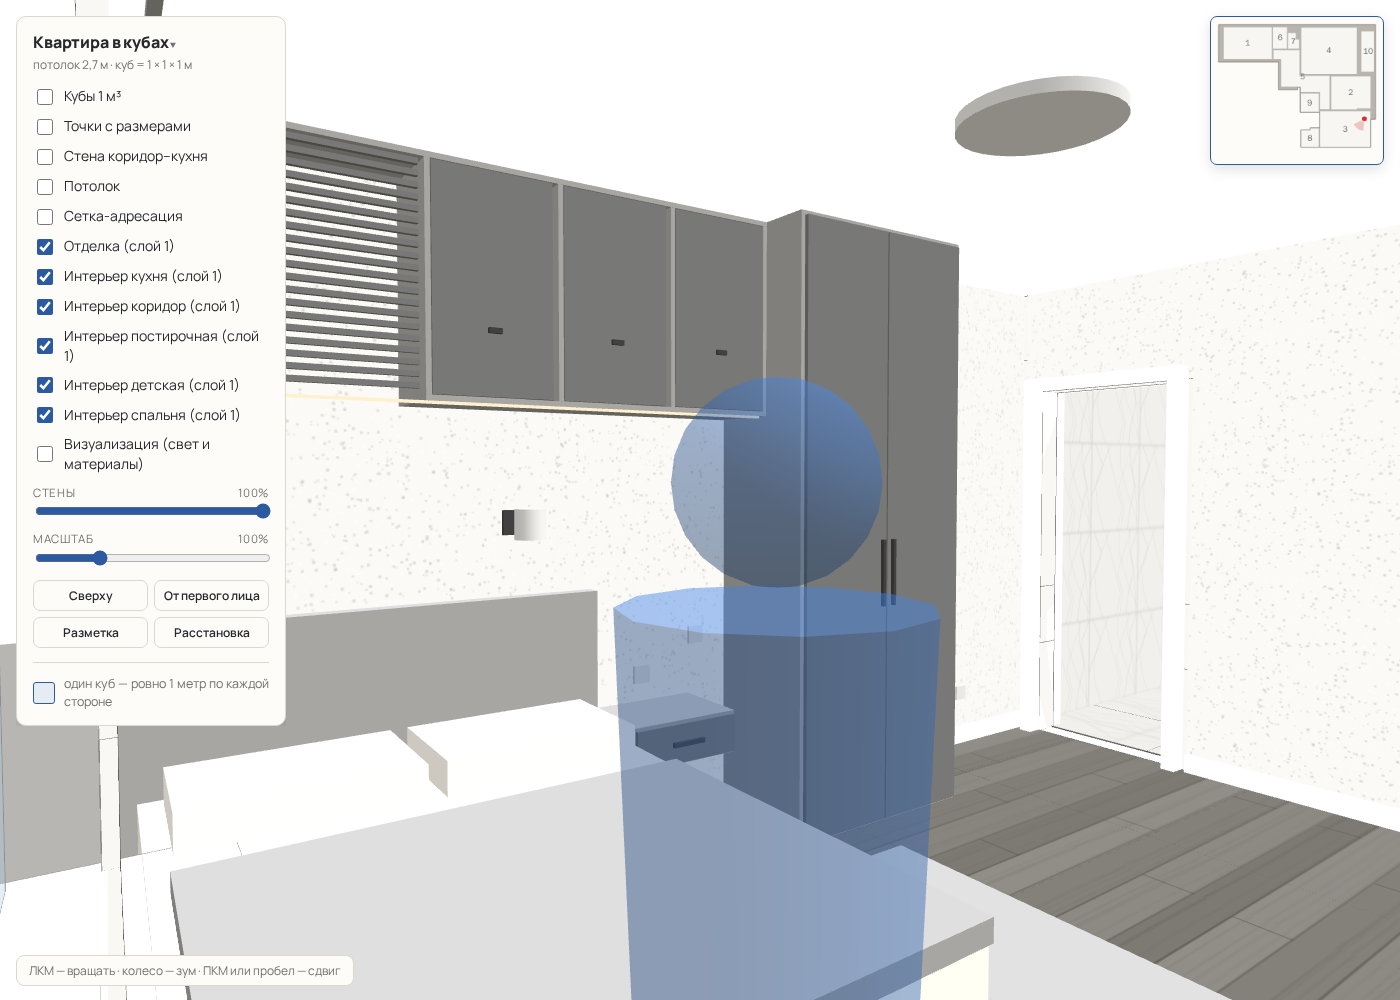
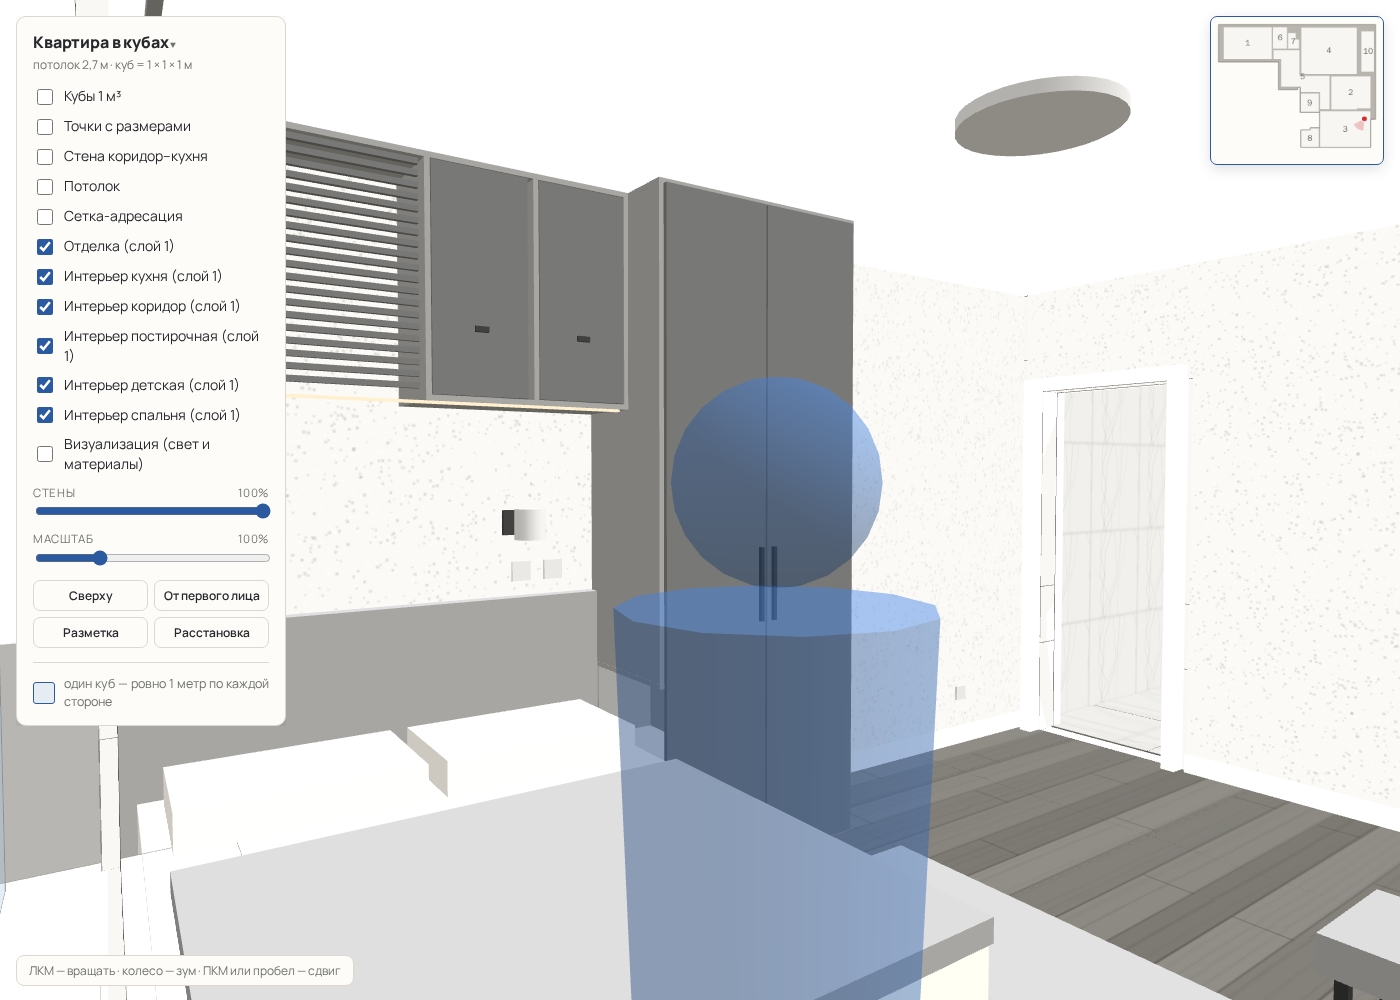
Комната 3: столик дальше от входа, отдельное полукруглое зеркало; без тумбы и одной секции ящиков, шкаф вплотную к кровати с нишей-полкой

Changed region(s): [[0.3379, 0.155, 0.7064, 0.775], [0.9521, 0.868, 1.0, 1.0]]

diff --git a/items.js b/items.js
@@ -189,19 +189,20 @@ const PHYS={}; // id → boxes
        [[0.12,0.82],[0.88,1.58]].forEach(([x0,x1])=>b(x0,x1,0.55,0.67,0.15,0.60,mat.pillow));       // two pillows
        b(0.10,1.60,0.55,0.61,0.85,2.15,mat.cushion);                                               // blanket at the feet
      }},
-    {id:'mnight',type:'подвесная тумба у кровати, западная',room:3,layer:'master',pos:[13.06,13.144],rot:180,size:[0.50,0.58,0.40],fixed:'wall',
-     build(b){ b(0,0.5,0.40,0.58,0.02,0.38,mat.body); b(0.01,0.49,0.41,0.57,0.38,0.40,mat.wdoor); b(0.175,0.325,0.48,0.50,0.40,0.415,mat.handle); }}, // one drawer
-    {id:'mcab',type:'блок подвесных ящиков над изголовьем, восточная секция под кондиционер',room:3,layer:'master',pos:[14.76,13.144],rot:180,size:[2.40,2.70,0.35],fixed:'wall',
+    {id:'mcab',type:'блок подвесных ящиков над изголовьем: 2 дверцы + секция под кондиционер',room:3,layer:'master',pos:[14.76,13.144],rot:180,size:[1.70,2.70,0.35],fixed:'wall',
      build(b){
        const t=0.02;
-       b(0,2.4,2.7-t,2.7,0,0.35,mat.body); b(0.9,2.4,1.85,1.85+t,0,0.35,mat.body); b(0.9,2.4,1.85+t,2.7-t,0,t,mat.body); // top, bottom and back of the 3 door sections; AC section has neither
-       [0,0.9,1.4,1.9,2.38].forEach(x=>b(x,x+t,1.85+t,2.7-t,t,0.35,mat.body));                     // section walls
-       for(let i=0;i<3;i++){ const x0=0.9+i*0.5+t+0.003; b(x0,x0+0.5-2*t-0.006,1.85+t+0.003,2.7-t-0.003,0.33,0.35,mat.wdoor); b(x0+0.2,x0+0.25,2.1,2.12,0.35,0.365,mat.handle); } // doors
+       b(0,1.7,2.7-t,2.7,0,0.35,mat.body); b(0.9,1.7,1.85,1.85+t,0,0.35,mat.body); b(0.9,1.7,1.85+t,2.7-t,0,t,mat.body); // top, bottom and back of the 2 door sections; AC section has neither
+       [0,0.9,1.3,1.68].forEach(x=>b(x,x+t,1.85+t,2.7-t,t,0.35,mat.body));                         // section walls
+       for(let i=0;i<2;i++){ const x0=0.9+i*0.4+t+0.003; b(x0,x0+0.4-2*t-0.006,1.85+t+0.003,2.7-t-0.003,0.33,0.35,mat.wdoor); b(x0+0.15,x0+0.2,2.1,2.12,0.35,0.365,mat.handle); } // doors
        for(let y=1.89;y<2.66;y+=0.04) b(0.02,0.88,y,y+0.02,0.33,0.35,mat.wdoor);                   // louvred front of the AC section, open bottom
      }},
-    {id:'mward',type:'шкаф на две двери для повседневных вещей',room:3,layer:'master',pos:[12.36,13.144],rot:180,size:[1.00,2.70,0.60],fixed:'wall',
+    {id:'mward',type:'шкаф на две двери, вплотную к кровати; ниша-полка со стороны кровати 0.45–0.80',room:3,layer:'master',pos:[13.06,13.144],rot:180,size:[1.00,2.70,0.60],fixed:'wall',
      build(b){
-       b(0,0.02,0,2.7,0.03,0.58,mat.body); b(0.98,1.0,0,2.7,0.03,0.58,mat.body); b(0,1.0,2.68,2.7,0.03,0.58,mat.body); b(0,1.0,0,0.02,0.03,0.58,mat.body); b(0.02,0.98,0.02,2.68,0.03,0.05,mat.body); // body
+       const N0=0.45, N1=0.80, NW=0.30;                                                                // niche: height 0.45–0.80, 0.30 deep into the wardrobe
+       b(0,0.02,0,N0,0.03,0.58,mat.body); b(0,0.02,N1,2.7,0.03,0.58,mat.body);                       // bed-side panel above and below the niche
+       b(0.98,1.0,0,2.7,0.03,0.58,mat.body); b(0,1.0,2.68,2.7,0.03,0.58,mat.body); b(0,1.0,0,0.02,0.03,0.58,mat.body); b(0.02,0.98,0.02,2.68,0.03,0.05,mat.body); // body
+       b(0,NW,N0,N0+0.02,0.03,0.58,mat.body); b(0,NW,N1-0.02,N1,0.03,0.58,mat.body); b(NW-0.02,NW,N0,N1,0.03,0.58,mat.body); // niche shelf, ceiling and back
        b(0.02,0.496,0.02,2.68,0.58,0.60,mat.wdoor); b(0.504,0.98,0.02,2.68,0.58,0.60,mat.wdoor);   // two doors
        b(0.46,0.475,1.0,1.3,0.60,0.62,mat.handle); b(0.525,0.54,1.0,1.3,0.60,0.62,mat.handle);      // vertical bar handles
      }},
@@ -209,12 +210,13 @@ const PHYS={}; // id → boxes
      build(b){ b(0,0.97,1.07,1.63,0,0.04,mat.dark); b(0.02,0.95,1.09,1.61,0,0.005,mat.screen); }},
     {id:'mconsole',type:'подвесная консоль под ТВ, два ящика',room:3,layer:'master',pos:[14.51,10.127],rot:180,size:[1.20,0.60,0.35],fixed:'wall',
      build(b){ b(0,1.2,0.42,0.60,0.02,0.33,mat.body); [0.01,0.605].forEach(x=>{ b(x,x+0.585,0.43,0.59,0,0.02,mat.wdoor); b(x+0.22,x+0.37,0.50,0.52,-0.015,0,mat.handle); }); }},
-    {id:'vanity',type:'туалетный столик с плоским ящиком',room:3,layer:'master',pos:[11.9,10.227],rot:180,size:[1.00,0.75,0.45],fixed:'wall',
+    {id:'vanity',type:'туалетный столик с плоским ящиком',room:3,layer:'master',pos:[12.6,10.227],rot:180,size:[1.00,0.75,0.45],fixed:'wall',
      build(b){ b(0,1.0,0.72,0.75,0,0.45,mat.body); b(0.03,0.97,0.62,0.72,0.05,0.43,mat.body); b(0.04,0.96,0.63,0.71,0.03,0.05,mat.wdoor);
        b(0,0.03,0,0.72,0.05,0.43,mat.body); b(0.97,1.0,0,0.72,0.05,0.43,mat.body); }},                // side panels
-    {id:'vmirror',type:'зеркало над туалетным столиком',room:3,layer:'master',pos:[11.8,9.827],rot:180,size:[0.80,1.80,0.03],fixed:'wall',
-     build(b){ b(0,0.8,0.80,1.80,0.01,0.03,mat.frame); b(0.02,0.78,0.82,1.78,0,0.01,mat.glass); }},
-    {id:'vpouf',type:'пуфик у туалетного столика',room:3,layer:'master',pos:[11.6,10.681],rot:180,size:[0.40,0.45,0.40],
+    {id:'vmirror',type:'зеркало полукруглое Ø1.10, отдельно на стене над столиком',room:3,layer:'master',pos:[12.65,9.827],rot:180,size:[1.10,1.52,0.03],fixed:'wall',
+     build(b,g){ const half=(r,m,z)=>{ const d=new THREE.Mesh(new THREE.CircleGeometry(r,48,0,Math.PI),m); d.rotation.y=Math.PI; d.position.set(0.55,0.95,z); g.add(d); };
+       half(0.57,mat.frame,0.025); half(0.55,mat.glass,0.01); b(-0.02,1.12,0.93,0.95,0.005,0.03,mat.frame); }}, // flat bottom edge 0.20 above the worktop
+    {id:'vpouf',type:'пуфик у туалетного столика',room:3,layer:'master',pos:[12.3,10.681],rot:180,size:[0.40,0.45,0.40],
      build(b){ b(0,0.4,0.35,0.45,0,0.4,mat.cushion); [[0.03,0.03],[0.34,0.03],[0.03,0.34],[0.34,0.34]].forEach(([x,z])=>b(x,x+0.03,0,0.35,z,z+0.03,mat.frame)); }},
     {id:'mrug',type:'ковёр, короткий ворс',room:3,layer:'master',pos:[14.0,12.321],rot:180,size:[2.00,0.01,2.00],
      build(b){ b(0,2,0,0.01,0,2,mat.wpanel); }},
@@ -226,23 +228,23 @@ const PHYS={}; // id → boxes
      build(b,g){ b(0.03,0.13,1.35,1.45,0,0.02,mat.handle); b(0.075,0.085,1.395,1.405,0.02,0.13,mat.handle); const s=new THREE.Mesh(new THREE.CylinderGeometry(0.06,0.06,0.12,16),mat.lamp); s.position.set(0.08,1.40,0.165); g.add(s); }},
     {id:'bra6',type:'бра для чтения, восточная сторона кровати',room:3,layer:'master',pos:[14.49,13.124],rot:180,size:[0.16,1.50,0.245],fixed:'wall',
      build(b,g){ b(0.03,0.13,1.35,1.45,0,0.02,mat.handle); b(0.075,0.085,1.395,1.405,0.02,0.13,mat.handle); const s=new THREE.Mesh(new THREE.CylinderGeometry(0.06,0.06,0.12,16),mat.lamp); s.position.set(0.08,1.40,0.165); g.add(s); }},
-    {id:'led4',type:'LED-лента под блоком ящиков, свет на изголовье',room:3,layer:'master',pos:[14.72,12.814],rot:180,size:[2.32,1.85,0.02],fixed:'wall',
-     build(b){ b(0,2.32,1.84,1.85,0,0.02,mat.led); }},
-    {id:'bra7',type:'бра у зеркала, левое',room:3,layer:'master',pos:[10.97,10.022],rot:180,size:[0.16,1.60,0.245],fixed:'wall',
+    {id:'led4',type:'LED-лента под блоком ящиков, свет на изголовье',room:3,layer:'master',pos:[14.72,12.814],rot:180,size:[1.62,1.85,0.02],fixed:'wall',
+     build(b){ b(0,1.62,1.84,1.85,0,0.02,mat.led); }},
+    {id:'bra7',type:'бра у зеркала, левое',room:3,layer:'master',pos:[11.48,10.022],rot:180,size:[0.16,1.60,0.245],fixed:'wall',
      build(b,g){ b(0.03,0.13,1.45,1.55,0.225,0.245,mat.handle); b(0.075,0.085,1.495,1.505,0.115,0.225,mat.handle); const s=new THREE.Mesh(new THREE.CylinderGeometry(0.06,0.06,0.12,16),mat.lamp); s.position.set(0.08,1.50,0.08); g.add(s); }},
-    {id:'bra8',type:'бра у зеркала, правое',room:3,layer:'master',pos:[12.0,10.022],rot:180,size:[0.16,1.60,0.245],fixed:'wall',
+    {id:'bra8',type:'бра у зеркала, правое',room:3,layer:'master',pos:[12.88,10.022],rot:180,size:[0.16,1.60,0.245],fixed:'wall',
      build(b,g){ b(0.03,0.13,1.45,1.55,0.225,0.245,mat.handle); b(0.075,0.085,1.495,1.505,0.115,0.225,mat.handle); const s=new THREE.Mesh(new THREE.CylinderGeometry(0.06,0.06,0.12,16),mat.lamp); s.position.set(0.08,1.50,0.08); g.add(s); }},
     {id:'led5',type:'LED-подсветка по нижней кромке ТВ',room:3,layer:'master',pos:[14.37,9.837],rot:180,size:[0.92,1.07,0.01],fixed:'wall',
      build(b){ b(0,0.92,1.06,1.07,0,0.01,mat.led); }},
     {id:'sw3',type:'выключатель у двери, 2 клавиши: общий свет M13 + бра/LED',room:3,layer:'master',pos:[10.051,10.921],rot:180,size:[0.01,0.99,0.08],fixed:'wall',build(b){ b(0,0.01,0.91,0.99,0,0.08,mat.lamp); }},
-    {id:'sw4',type:'проходной выключатель у кровати, 2 клавиши',room:3,layer:'master',pos:[12.56,13.124],rot:180,size:[0.08,0.89,0.01],fixed:'wall',build(b){ b(0,0.08,0.81,0.89,0,0.01,mat.lamp); }},
+    {id:'sw4',type:'проходной выключатель у кровати, 2 клавиши (над изголовьем)',room:3,layer:'master',pos:[13.42,13.124],rot:180,size:[0.08,1.24,0.01],fixed:'wall',build(b){ b(0,0.08,1.16,1.24,0,0.01,mat.lamp); }},
     // sockets: flat boxes 0.08 × 0.08 × 0.01 on the wall, purpose in the caption
-    {id:'sock14',type:'розетки 2+2 USB над тумбой',room:3,layer:'master',pos:[12.85,13.124],rot:180,size:[0.08,0.74,0.01],fixed:'wall',build(b){ b(0,0.08,0.66,0.74,0,0.01,mat.lamp); }},
+    {id:'sock14',type:'розетки 2+2 USB у западного края изголовья (над изголовьем 1.10)',room:3,layer:'master',pos:[13.28,13.124],rot:180,size:[0.08,1.24,0.01],fixed:'wall',build(b){ b(0,0.08,1.16,1.24,0,0.01,mat.lamp); }},
     {id:'sock15',type:'розетка + USB у восточного края изголовья (над изголовьем 1.10)',room:3,layer:'master',pos:[14.6,13.124],rot:180,size:[0.08,1.24,0.01],fixed:'wall',build(b){ b(0,0.08,1.16,1.24,0,0.01,mat.lamp); }},
     {id:'sock16',type:'розетка для кондиционера внутри секции',room:3,layer:'master',pos:[14.35,13.124],rot:180,size:[0.08,2.34,0.01],fixed:'wall',build(b){ b(0,0.08,2.26,2.34,0,0.01,mat.lamp); }},
     {id:'sock17',type:'медиаблок за телевизором (2 розетки + ТВ/RJ-45 + HDMI)',room:3,layer:'master',pos:[13.95,9.807],rot:180,size:[0.08,1.34,0.01],fixed:'wall',build(b){ b(0,0.08,1.26,1.34,0,0.01,mat.lamp); }},
     {id:'sock18',type:'розетки у консоли',room:3,layer:'master',pos:[13.95,9.807],rot:180,size:[0.08,0.39,0.01],fixed:'wall',build(b){ b(0,0.08,0.31,0.39,0,0.01,mat.lamp); }},
-    {id:'sock19',type:'розетки + USB у туалетного столика (фен, плойка)',room:3,layer:'master',pos:[11.96,9.807],rot:180,size:[0.08,0.94,0.01],fixed:'wall',build(b){ b(0,0.08,0.86,0.94,0,0.01,mat.lamp); }},
+    {id:'sock19',type:'розетки + USB у туалетного столика (фен, плойка)',room:3,layer:'master',pos:[12.8,9.807],rot:180,size:[0.08,0.94,0.01],fixed:'wall',build(b){ b(0,0.08,0.86,0.94,0,0.01,mat.lamp); }},
     {id:'sock20',type:'розетка общего назначения (увлажнитель, пылесос)',room:3,layer:'master',pos:[10.66,13.124],rot:180,size:[0.08,0.34,0.01],fixed:'wall',build(b){ b(0,0.08,0.26,0.34,0,0.01,mat.lamp); }},
   ];
   function buildItem(it){

diff --git a/tools/check.js b/tools/check.js
@@ -385,7 +385,7 @@ const { chromium } = require('playwright');
     const colored = []; its.forEach(it => ITEM_GROUPS[it.id].traverse(o => { if (!o.isMesh || o.material.isMeshBasicMaterial) return; const c = o.material.color; if (Math.max(c.r, c.g, c.b) - Math.min(c.r, c.g, c.b) > 0.08 && !colored.includes(it.id)) colored.push(it.id); }));
     return { n: its.length, inside, bedEast: bed.max.x, cab, door, consoleLow: console_, rugTop, overlap, colored, tv: (bb(ITEM_GROUPS.mtv).min.x + bb(ITEM_GROUPS.mtv).max.x) / 2 };
   });
-  if (m3.n < 27) problems.push('комната 3: предметов слоя master ' + m3.n + ' (< 27)');
+  if (m3.n < 26) problems.push('комната 3: предметов слоя master ' + m3.n + ' (< 26)');
   if (m3.inside.length) problems.push('комната 3: предметы вне помещения: ' + m3.inside.join(', '));
   if (Math.abs(m3.bedEast - 14.76) > 0.01) problems.push('комната 3: кровать не у восточной стены: x1=' + m3.bedEast.toFixed(3));
   if (m3.cab) problems.push('комната 3: блок ящиков/шкаф заходит на окно');

diff --git a/tasks/room3-master/README.md b/tasks/room3-master/README.md
@@ -290,6 +290,11 @@ issue: —
 (каркас 1.70×2.20, x 13.06–14.76, ось 13.91), ТВ 43" (0.97×0.56) и консоль 1.20 на оси, бра на оси ±0.50. Комод M5 удалён,
 розетка M28 оставлена как общего назначения. Карниз — z 9.777–12.794, до блока ящиков.
 
+Вторая итерация: столик, пуфик, бра и розетка сдвинуты на 0.70 к востоку (столик x 11.60–12.60); зеркало — отдельное
+полукруглое Ø1.10 (`CircleGeometry` полудиск), низ 0.95, на 0.20 выше столешницы. Подвесная тумба M2 удалена, блок ящиков
+1.70 (2 дверцы + секция кондиционера) ровно по ширине кровати; шкаф вплотную к кровати (x 12.06–13.06) с нишей-полкой
+со стороны кровати 0.45–0.80 × 0.30 в глубину. Проходной выключатель M21 и розетки M22 — над изголовьем у западного края.
+
 ## Замечания и риски
 
 - **Кровать у стены** — к спальному месту у окна подход только через кровать. Это следствие «вплотную у окна».
